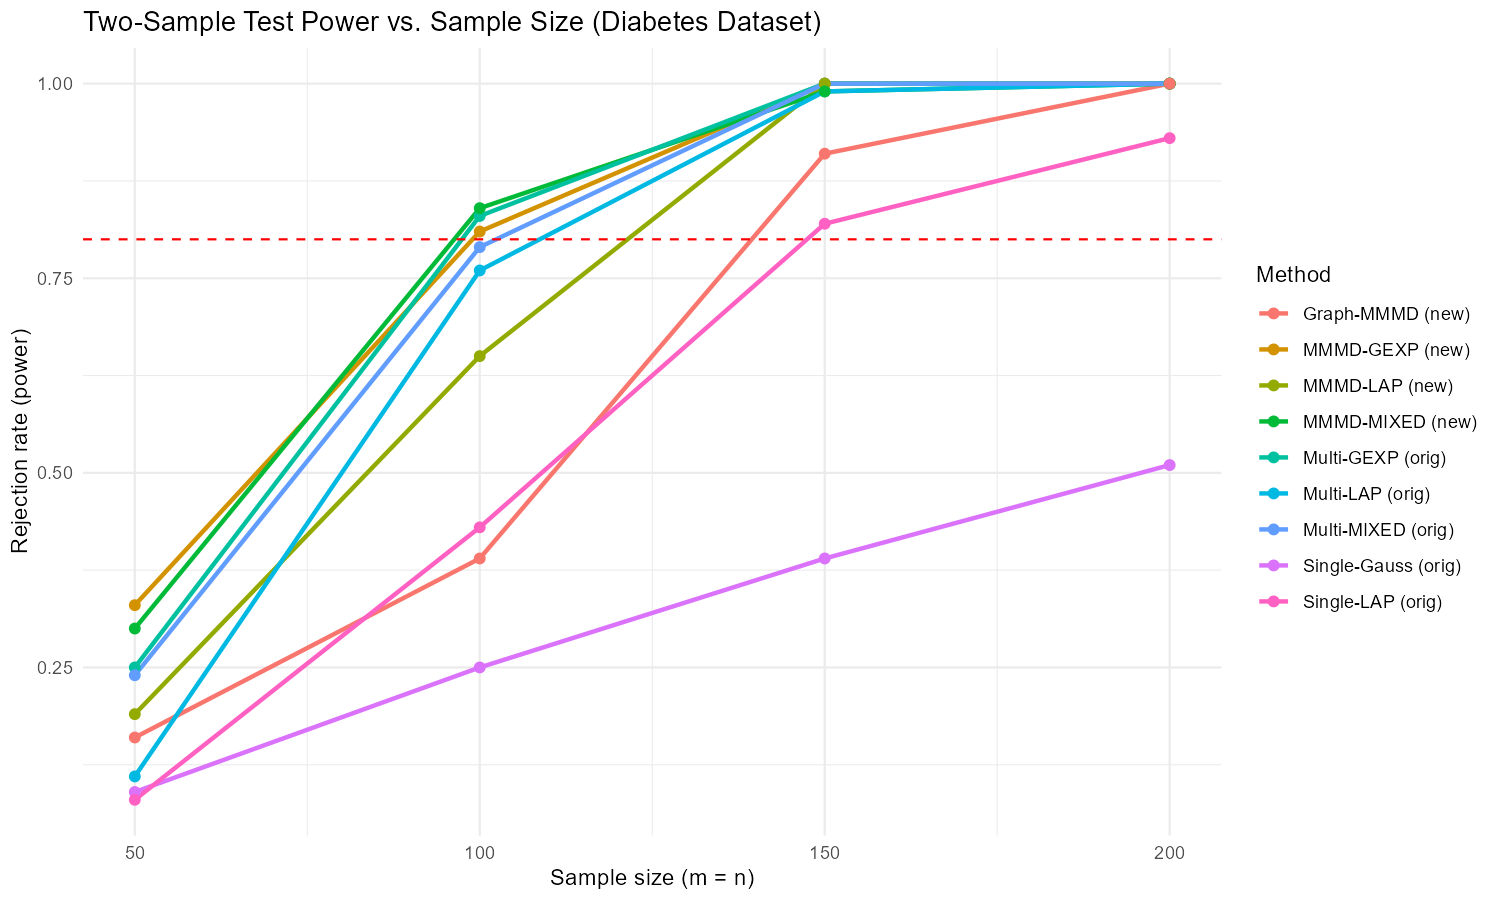
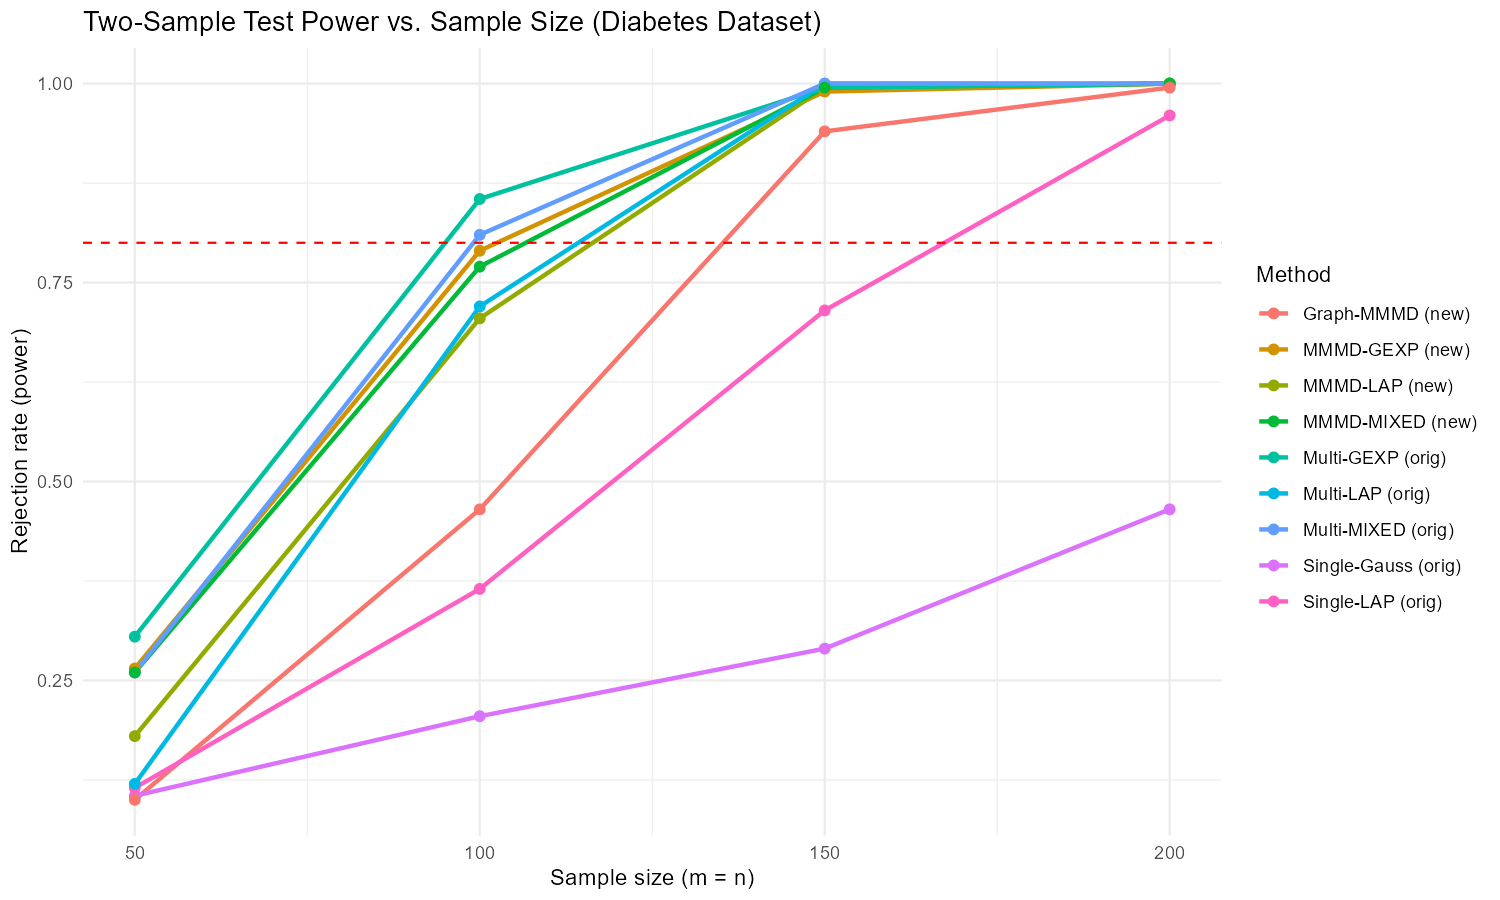
Update diabetes results and extension notes

diff --git a/README_extensions.md b/README_extensions.md
@@ -418,3 +418,107 @@ graph_mmmd_test(xy$X, xy$Y, B = 500)
 task4_graph_curve.png 现在只用于比较不同 null 分布下的 Type-I error。
 task4_skew_type1_curve.png 进一步把横轴改成标准化偏斜度，用来观察分布偏态增强时检验是否仍保持 0.05 水平附近的校准性。
 ```
+
+## 8. 演讲稿（个人部分，控制在 3 分钟以内）
+
+> 以下为 Andrew Zheng在 `representation_final.tex` 中 Part 0（MMMD Kernel Extensions）的讲稿，
+> 对应幻灯片第 3–11 页。按正常语速约 **2 分 50 秒**，建议配合激光笔指示图上关键区域。
+
+---
+
+**Slide 1 — MMMD Framework（约 30 秒）**
+
+> 我负责的部分是 MMMD 的多核框架扩展和数值实验。
+> 首先简单回顾一下 MMMD 的流程：
+> 给定两组样本 X 和 Y，我们构造一组多尺度核函数，计算每个核下的 MMD 统计量，
+> 得到一个 r 维向量。然后通过 Mahalanobis 距离对核间相关性做去相关，
+> 最后用 multiplier bootstrap 做假设检验。
+> 我们的框架支持三种核族——GEXP、LAP 和混合核，
+> 并且扩展了 Graph-MMMD、偏态分布和并行计算后端。
+
+**Slide 2 — Task 1: ε-Contamination Sensitivity（约 20 秒）**
+
+> 第一个实验是污染敏感性。
+> 我们在 Q 分布中混入 t₁₀ 的污染分量，扫描污染比例 ε。
+> 左图横轴是 ε，纵轴是 power。
+> 可以看到在 ε 约 0.625 时 power 达到 0.80，
+> 并且 power 在 ε ∈ [0.45, 0.65] 区间内从 0.57 快速上升到 0.80，过渡非常陡峭。
+
+**Slide 3 — Task 2: Variance-Scale k Sensitivity（约 20 秒）**
+
+> 第二个实验测试对方差尺度变化的检测能力。
+> Q 分布的协方差乘以 k，H₀ 对应 k=1。
+> 表格对比了三种 MMMD 和单核 Gauss MMD 的最小可检测 k 值。
+> 可以看到 Mixed MMMD 在 k=1.25 就达到了 0.80 power，
+> 而单核 Gauss MMD 需要 k=1.40——MMMD 提前了约 15%。
+> 在 k=1.20 时，MMMD 的 power 是单核方法的 4 倍。
+
+**Slide 4 — Task 3a: Type-I Error Calibration（约 15 秒）**
+
+> 第三个实验先看 Type-I error 的校准。
+> 在 H₀ 下检验三种核族、三种 r 值。
+> r=3 和 r=5 时所有方法都在 0.02 到 0.055 之间，校准良好。
+> 但 r=10 的 GEXP 膨胀到 0.12——说明核太多会恶化协方差估计。
+> LAP 核族在所有 r 下都保持稳定。
+
+**Slide 5 — Task 3b: ROC Analysis（约 15 秒）**
+
+> ROC 分析部分，我们用了向量化扫描：
+> 一次 bootstrap 就可以算出所有 α 阈值下的决策，
+> 不需要为每个 α 重新算核矩阵。
+> 右图 ROC 曲线——三条曲线都在对角线上方，
+> 且 FPR 都接近名义水平 0.05，说明检验是有效的。
+
+**Slide 6 — Task 4a: Graph-MMMD Extension（约 20 秒）**
+
+> 第四个实验是 Graph-MMMD 扩展。
+> 我们把两组样本合并，构建 kNN 图，取图 Laplacian，
+> 然后用 heat kernel 生成一系列图核，再接入 MMMD 流程。
+> 左图的四根柱子是在四种不同零分布下的 Type-I error——
+> 包括正态、方差放大、偏正态和多元 Laplace。
+> 所有值都 ≤ 0.053，说明图核方法在不同分布下都保持良好的校准。
+
+**Slide 7 — Task 4b: Skewness Robustness（约 15 秒）**
+
+> 进一步地，我们扫描了偏正态分布从 0 到 0.90 的标准化偏斜度。
+> 可以看到即使在极端偏斜度 0.90 下，
+> Type-I error 仍然只有 0.020，始终控制在 0.053 以下。
+> 这说明 Graph-MMMD 对分布的非对称性非常稳健。
+
+**Slide 8 — Fig. 2 Reproduction: Mixture Distribution Power（约 20 秒）**
+
+> 最后我们复现了论文 Fig.2 的混合分布实验。
+> P 和 Q 都是正态-t 混合分布，区别在于 Q 的协方差放大了 1.25 倍。
+> 表格对比了不同混合比例 p 下的 power。
+> 在 p=0——也就是纯正态时——Mixed MMMD 达到 0.96，
+> 而单核 Gauss MMD 只有 0.46，MMMD 的优势是 2 到 5 倍。
+
+**Slide 9 — Summary（约 15 秒）**
+
+> 总结一下：
+> MMMD 在污染检测上比单核方法早约 15%，
+> 校准良好（只要核数不过多），
+> Graph-MMMD 在不同分布和偏斜度下都保持稳健，
+> 在混合分布场景下 power 是单核方法的 2–5 倍。
+> 整个实验框架是模块化的 R 库，支持并行计算，可以方便地接入新数据和新的核函数。
+> 谢谢！
+
+---
+
+**时间分配总览：**
+
+| 幻灯片 | 内容 | 建议时长 |
+|---|---|---|
+| 1 | MMMD Framework | ~30s |
+| 2 | Task 1: ε-Contamination | ~20s |
+| 3 | Task 2: Variance k | ~20s |
+| 4 | Task 3a: Type-I Error | ~15s |
+| 5 | Task 3b: ROC Analysis | ~15s |
+| 6 | Task 4a: Graph-MMMD | ~20s |
+| 7 | Task 4b: Skewness Robustness | ~15s |
+| 8 | Fig.2: Mixture Power | ~20s |
+| 9 | Summary | ~15s |
+| **合计** | | **~2′50″** |
+
+> 提示：如果时间紧张，Task 3b（ROC）可以一句话带过（"ROC 曲线验证了检验的有效性"），
+> 把时间压缩到约 2′35″；如果时间充裕，可以在 Framework 和 Summary 页各多停留 5 秒。